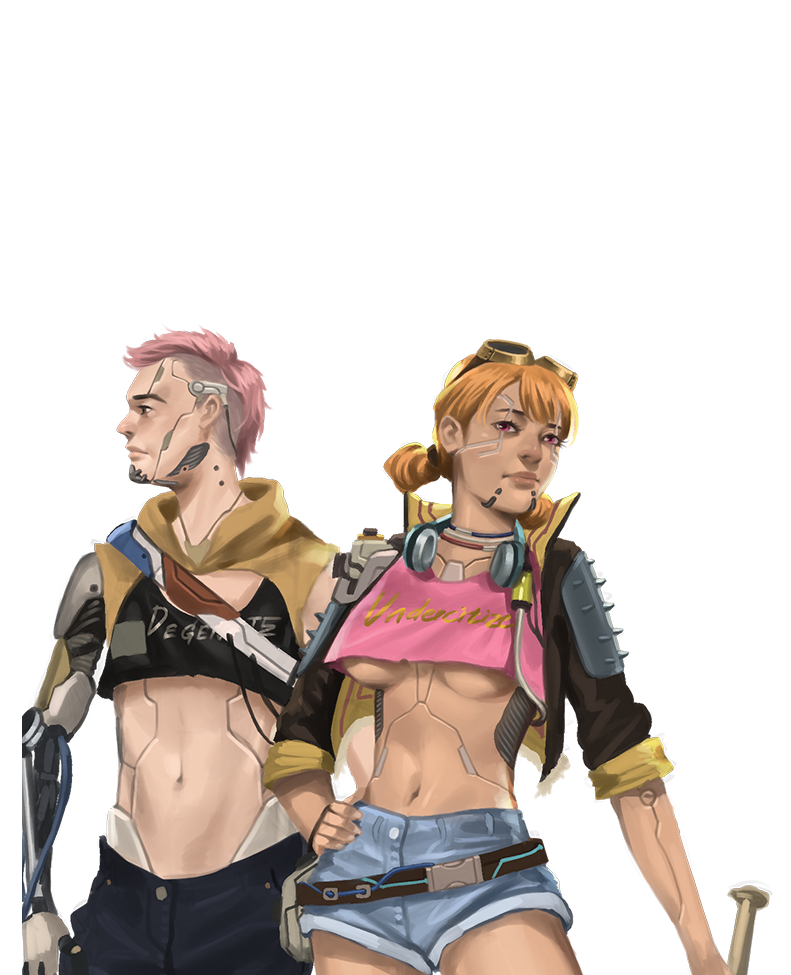
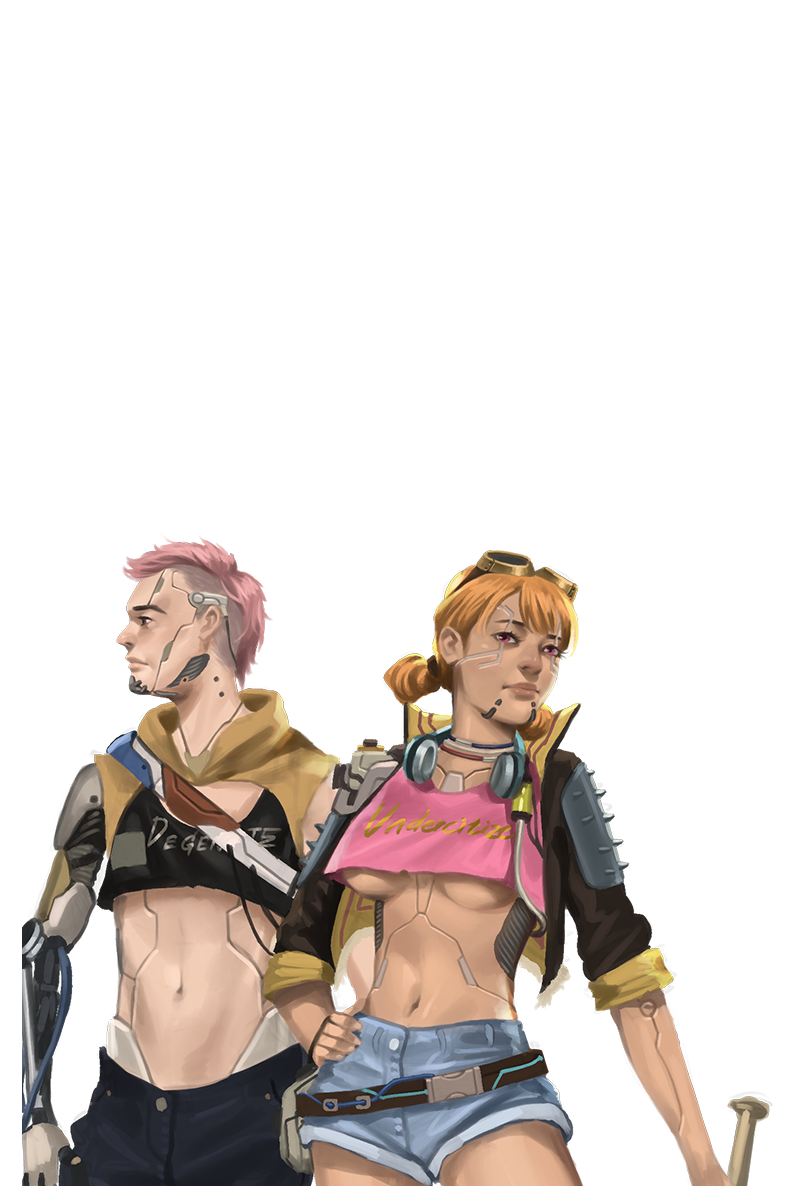
fix about

Changed region(s): [[0.0303, 0.3385, 0.9709, 1.0], [0.2427, 0.8308, 0.2731, 0.8615], [0.0303, 0.9846, 0.0607, 1.0]]

diff --git a/frontend/assets/css/style.css b/frontend/assets/css/style.css
@@ -2404,8 +2404,8 @@ p {
       .about-area .about-title .title {
         font-size: 22px; } }
   .about-content{
-    margin-top: 30%;
-    margin-bottom: 30%;
+    margin-top: 25%;
+    margin-bottom: 25%;
   }
 
 /*===========================
